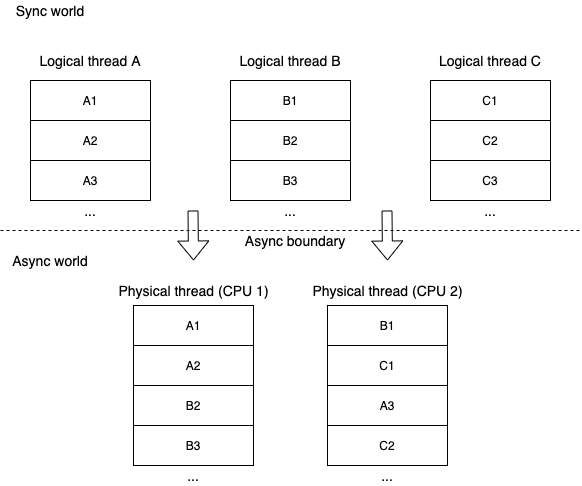
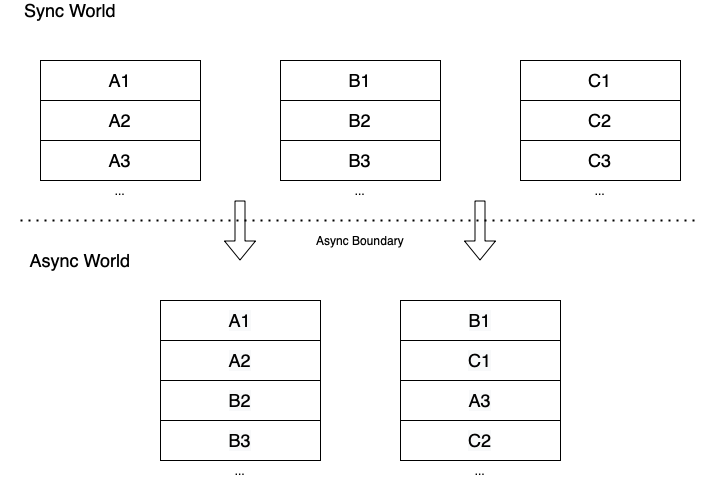
add the abstraction layers part and replace the async boundary image

diff --git a/README.md b/README.md
@@ -25,6 +25,7 @@ All code snippets are based on Cats-Effect 2, since Cats-Effect 3 wasn't yet out
   - [Resource handling](#resource-handling)
 - [Fibers](#fibers)
   - [Definition](#definition)
+  - [Fibers in the code](#fibers-in-the-code)
   - [Continuations](#continuations)
   - [Run loop](#run-loop)
   - [Cooperative yielding](#cooperative-yielding)
@@ -442,27 +443,51 @@ For more details on resource handling in Cats-Effect, refer to this [excellent b
 
 ## Fibers
 
+
 ### Definition
 
-You can think of fibers as lightweight threads which use cooperative scheduling, unlike real (OS and JVM) threads which use preemptive scheduling. 
-
-Also, fibers are managed in the user space, whereas real threads are managed in the kernel space.
+You can think of fibers as lightweight threads which use cooperative scheduling, unlike actual threads which use preemptive scheduling. 
 
 Note that in some contexts / languages fibers are also known as *coroutines*; "fiber" is usually used in the system-level context, while coroutines are used in the language-level context. 
 However, in Scala "fiber" is the preferred term.
 
-Fibers map to CPU / JVM threads many-to-few, similarly to how threads map to processes. 
-Multiple fibers can run on multiple thread pools, or on the same set of threads from one thread pool, or even on the same thread.
-In the case of a single thread, they will take turns executing their code using the available thread. 
-Depending on your code, as well as the library that you are using, you can decide to have them cooperate more often, thus achieving fairness, or to cooperate less often, thus sacrificing some fairness for more throughput (concepts of fairness and throughput have been [introduced earlier](#threads-and-thread-pools)).
+Unlike OS and JVM threads which are managed in the kernel space, fibers are managed in the user space.
+In other words, fibers are a made-up construct that lives on the heap because we bring it to life in our own code (well, library code - see next section).
 
-As mentioned earlier, fibers are lightweight: they consume much less memory than real threads, have growable and shrinkable stacks, and can be garbage collected. 
-Also, blocking a fiber doesn't block the underlying thread.
-As a consequence of all that, we don't have to be as careful when creating new fibers.
-On the other hand, when using threads, we're primarily constrained by the number of cores (but also other aspects).
+As a mental model, it's useful to think of fibers as a yet another level of abstraction above threads:
 
-I want to explicitly point out that fiber in Scala is a **concept**, not some native resource like process or thread. Project [Loom](https://wiki.openjdk.java.net/display/loom/Main) (also see this [blogpost](https://blog.softwaremill.com/will-project-loom-obliterate-java-futures-fb1a28508232?gi=c5487dba95ec)) aims to introduce fibers as native JVM constructs, but in Cats-Effect and other libraries fibers are a manually-implemented thing. 
-This also means that there might be some minor differences in implementation across those libraries (e.g. compare [Cats-Effect](https://typelevel.org/cats-effect/datatypes/fiber.html) with [ZIO](https://zio.dev/docs/overview/overview_basic_concurrency#fibers)).
+```
+Fibers
+-------
+Threads
+-------
+CPU
+```
+
+Fibers map to threads many-to-few, same as how threads map to CPU cores. 
+
+There is one important difference and one important similarity when it comes to these two layers of abstraction (fibers on threads vs threads on CPU).
+
+Difference: 
+
+As mentioned [earlier](#scheduling-and-executioncontext), threads are scheduled on the CPU *preemptively*, whereas fibers are scheduled on threads *cooperatively* 
+
+Similarity: 
+
+**Blocking on one level means de-scheduling on the level below**. This is a very powerful insight. 
+CPU doesn't know anything about blocking; it just keeps running threads in circles. 
+What we call a "blocked thread" is simply, from CPU's perspective, a thread that got de-scheduled and will be run again later at some point.
+Same principle becomes even more important on the layer above, because it makes us realise that blocking a fiber doesn't block the underlying thread.
+Blocking a fiber simply means it will step aside, yielding its thread to other fibers, and wait until it's scheduled again.
+Threads are a system resource and we should try not to block them, but when it comes to fibers - block away!
+
+Depending on your code, as well as the library that you are using, you can decide to have your fibers cooperate more often, thus achieving fairness, or to cooperate less often, thus sacrificing some fairness for more throughput (concepts of fairness and throughput have been [introduced earlier](#threads-and-thread-pools)).
+
+### Fibers in the code
+
+I want to explicitly point out that fiber in Scala is a **made-up, custom construct**, not some native resource like process or thread. 
+Project [Loom](https://wiki.openjdk.java.net/display/loom/Main) (also see this [blogpost](https://blog.softwaremill.com/will-project-loom-obliterate-java-futures-fb1a28508232?gi=c5487dba95ec)) is aiming to introduce fibers as native JVM constructs, but until that happens, fibers in Scala will continue to be a manually-implemented thing. 
+This also means that they might have some minor differences in implementation across different libraries (e.g. [cats-effect](https://typelevel.org/cats-effect/datatypes/fiber.html) vs [ZIO](https://zio.dev/docs/overview/overview_basic_concurrency)).
 
 Let's see some code: in Cats-Effect, fiber is a construct with `cancel` and `join`:
 ```scala
